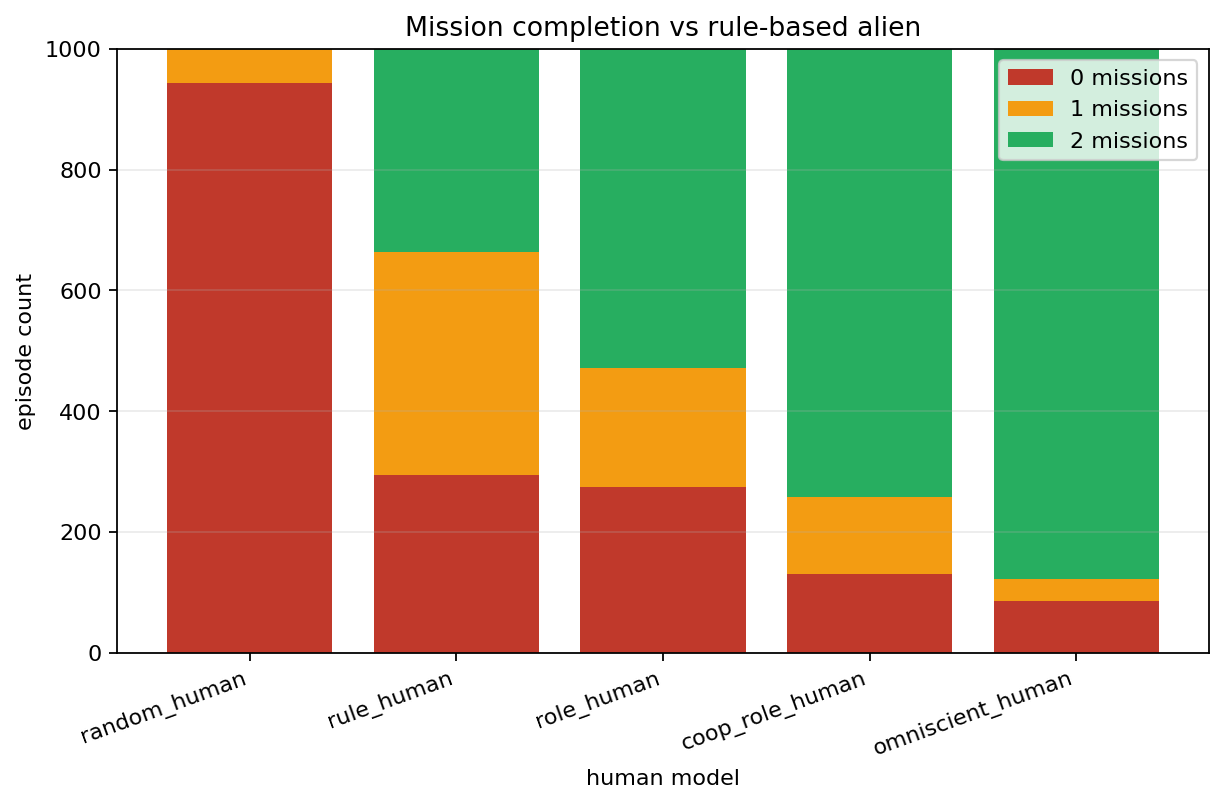
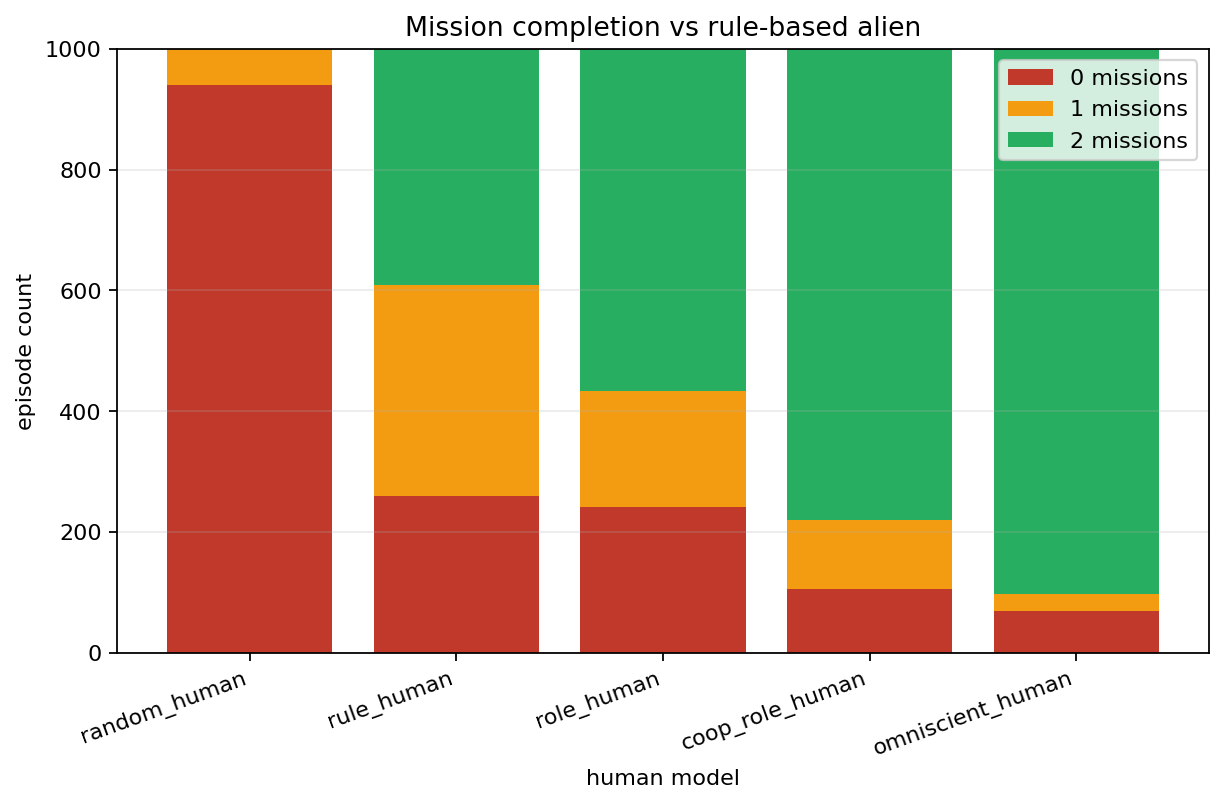
filter out timeout episodes in evaluation

diff --git a/evaluate_agents.py b/evaluate_agents.py
@@ -263,6 +263,8 @@ def run_episode(
     outcome_step = int(outcome_frame.step)
 
     timeout = outcome == "max_steps_reached"
+    if outcome == "max_steps_reached":
+        print(f"\n[TIMEOUT] seed={seed}, map={grid.shape[1]}x{grid.shape[0]}, human={human_spec.key}, alien={alien_spec.key}")
     return EpisodeRun(
         frames=frames,
         outcome=outcome,
@@ -397,64 +399,23 @@ def extract_episode_metrics(
 
 
 def evaluate_matchup(
-    episode_seeds: list[int],
-    width: int,
-    height: int,
-    max_steps: int,
-    view_length: int,
-    human_spec: HumanSpec,
-    alien_spec: AlienSpec,
-    p_noise: float = 0.10,
-    stop_on_timeout: bool = False,
+    validated_episodes: list[tuple[EpisodeMetrics, list[str]]],
 ) -> MatchupMetrics:
+    """Build a MatchupMetrics from a list of already-validated (metrics, human_labels) pairs."""
     escaped_counts = [0, 0, 0, 0]
     total_steps = 0
     episodes: list[EpisodeMetrics] = []
     human_labels: list[str] = []
-    total_humans = human_spec.count
 
-    for episode_seed in episode_seeds:
-        random.seed(episode_seed)
-        np.random.seed(episode_seed)
-
-        generator = MapGenerator(
-            width=width,
-            height=height,
-            alpha=ALPHA,
-            seed=episode_seed,
-            mission_count=MISSION_COUNT,
-        )
-        grid = generator.generate()
-        run = run_episode(
-            grid=grid,
-            max_steps=max_steps,
-            view_length=view_length,
-            seed=episode_seed,
-            human_spec=human_spec,
-            alien_spec=alien_spec,
-            p_noise=p_noise,
-        )
-        if stop_on_timeout and run.outcome == "max_steps_reached":
-            print(f"\n[STOP] max_steps reached: seed={episode_seed}, map={width}x{height}, human={human_spec.key}")
-            print(f"python run.py --human-class {human_spec.key} --human-count {human_spec.count} --seed {episode_seed} --width {width} --height {height} --max-steps {max_steps} --no-show")
-            sys.exit(0)
-
-        exit_pos = find_tile(grid, Tile.EXIT)
-        metrics = extract_episode_metrics(
-            seed=episode_seed,
-            run=run,
-            total_humans=total_humans,
-            max_steps=max_steps,
-            exit_pos=exit_pos,
-        )
+    for metrics, labels in validated_episodes:
         episodes.append(metrics)
-        if not human_labels and run.frames:
-            human_labels = [a.label for a in run.frames[0].agents if a.role == "human"]
+        if not human_labels and labels:
+            human_labels = labels
         total_steps += metrics.steps
         escaped_idx = max(0, min(metrics.escaped_count, HUMAN_COUNT))
         escaped_counts[escaped_idx] += 1
 
-    total = max(len(episode_seeds), 1)
+    total = max(len(episodes), 1)
     escaped_percentages = [count / total * 100.0 for count in escaped_counts]
     return MatchupMetrics(
         escape_stats=EscapeStats(
@@ -467,10 +428,114 @@ def evaluate_matchup(
     )
 
 
-def build_episode_seeds(base_seed: int, width: int, height: int, episodes: int) -> list[int]:
+def build_seed_generator(base_seed: int, width: int, height: int):
+    """Return an infinite generator of unique episode seeds for a given map size."""
     mix_seed = base_seed ^ (width << 16) ^ height
     rng = np.random.default_rng(mix_seed)
-    return [int(rng.integers(0, 2**31 - 1)) for _ in range(episodes)]
+    while True:
+        yield int(rng.integers(0, 2**31 - 1))
+
+
+def collect_episodes(
+    seed_gen,
+    target_episodes: int,
+    width: int,
+    height: int,
+    max_steps: int,
+    view_length: int,
+    human_alien_pairs: list[tuple[HumanSpec, AlienSpec]],
+    p_noise: float = 0.10,
+    stop_on_timeout: bool = False,
+) -> dict[tuple[str, str], list[tuple[EpisodeMetrics, list[str]]]]:
+    """
+    Draw seeds one at a time and run every (human_spec, alien_spec) pair against each seed.
+    A seed is only accepted when *none* of the pairs time out on it.
+    Repeats until every pair has collected `target_episodes` valid episodes.
+
+    Returns a dict keyed by (human_spec.key, alien_spec.key) -> list of (metrics, human_labels).
+    """
+    results: dict[tuple[str, str], list[tuple[EpisodeMetrics, list[str]]]] = {
+        (h.key, a.key): [] for h, a in human_alien_pairs
+    }
+    accepted = 0
+    skipped = 0
+
+    while accepted < target_episodes:
+        seed = next(seed_gen)
+
+        random.seed(seed)
+        np.random.seed(seed)
+
+        generator = MapGenerator(
+            width=width,
+            height=height,
+            alpha=ALPHA,
+            seed=seed,
+            mission_count=MISSION_COUNT,
+        )
+        grid = generator.generate()
+        exit_pos = find_tile(grid, Tile.EXIT)
+
+        # Run all pairs for this seed; bail out early on any timeout.
+        pair_results: dict[tuple[str, str], tuple[EpisodeMetrics, list[str]]] = {}
+        seed_valid = True
+
+        for human_spec, alien_spec in human_alien_pairs:
+            run = run_episode(
+                grid=grid,
+                max_steps=max_steps,
+                view_length=view_length,
+                seed=seed,
+                human_spec=human_spec,
+                alien_spec=alien_spec,
+                p_noise=p_noise,
+            )
+
+            if stop_on_timeout and run.timeout:
+                print(
+                    f"\n[STOP] max_steps reached: seed={seed}, map={width}x{height}, "
+                    f"human={human_spec.key}"
+                )
+                print(
+                    f"python run.py --human-class {human_spec.key} --human-count "
+                    f"{human_spec.count} --seed {seed} --width {width} --height {height} "
+                    f"--max-steps {max_steps} --no-show"
+                )
+                sys.exit(0)
+
+            if run.timeout:
+                seed_valid = False
+                skipped += 1
+                print(
+                    f"[SKIP] seed={seed}, map={width}x{height}, "
+                    f"human={human_spec.key}, alien={alien_spec.key} — timeout"
+                )
+                break
+
+            metrics = extract_episode_metrics(
+                seed=seed,
+                run=run,
+                total_humans=human_spec.count,
+                max_steps=max_steps,
+                exit_pos=exit_pos,
+            )
+            labels: list[str] = []
+            if run.frames:
+                labels = [a.label for a in run.frames[0].agents if a.role == "human"]
+            pair_results[(human_spec.key, alien_spec.key)] = (metrics, labels)
+
+        if seed_valid:
+            for key, data in pair_results.items():
+                results[key].append(data)
+            accepted += 1
+
+    if skipped:
+        print(
+            f"\n[INFO] map={width}x{height}: accepted {accepted} seeds, "
+            f"skipped {skipped} seeds due to timeouts."
+        )
+
+    return results
 
 
 def plot_survivor_count_comparison(
@@ -977,7 +1042,29 @@ def main() -> None:
         for spec in HUMAN_SPECS
     }
 
+    all_pairs = [(h, a) for h in selected_humans for a in selected_aliens]
+
+    # Collect all episodes per map size in one pass so every pair shares the same seeds.
+    # results[width, height] -> dict keyed by (human_spec.key, alien_spec.key)
+    results_by_map: dict[tuple[int, int], dict[tuple[str, str], list[tuple[EpisodeMetrics, list[str]]]]] = {}
+
     print("Evaluating human vs alien pairings")
+    for width, height in map_sizes:
+        seed_gen = build_seed_generator(args.seed, width, height)
+        print(f"\n=== Map size: {width}x{height} ===")
+        results_by_map[(width, height)] = collect_episodes(
+            seed_gen=seed_gen,
+            target_episodes=args.episodes,
+            width=width,
+            height=height,
+            max_steps=args.max_steps,
+            view_length=args.view_length,
+            human_alien_pairs=all_pairs,
+            p_noise=args.noise_prob,
+            stop_on_timeout=args.stop_on_timeout,
+        )
+
+    # Post-processing: write CSVs and plots per pair, drawing from already-collected results.
     for human_spec in selected_humans:
         for alien_spec in selected_aliens:
             pair_name = f"{human_spec.label} vs {alien_spec.label}"
@@ -998,19 +1085,9 @@ def main() -> None:
                 write_summary_table_header(table_writer)
 
                 for width, height in map_sizes:
-                    episode_seeds = build_episode_seeds(args.seed, width, height, args.episodes)
-
-                    print(f"\nMap size: {width}x{height}")
+                    pair_key = (human_spec.key, alien_spec.key)
                     matchup = evaluate_matchup(
-                        episode_seeds=episode_seeds,
-                        width=width,
-                        height=height,
-                        max_steps=args.max_steps,
-                        view_length=args.view_length,
-                        human_spec=human_spec,
-                        alien_spec=alien_spec,
-                        p_noise=args.noise_prob,
-                        stop_on_timeout=args.stop_on_timeout,
+                        validated_episodes=results_by_map[(width, height)][pair_key],
                     )
                     stats = matchup.escape_stats
                     episodes = matchup.episodes
@@ -1046,7 +1123,7 @@ def main() -> None:
                     else:
                         mission_completion_rate = 0.0
                     alien_captures = sum(ep.captured_count for ep in episodes)
-                    
+
                     table_writer.writerow([
                         width,
                         height,
@@ -1072,11 +1149,10 @@ def main() -> None:
 
                         for ep in episodes:
                             rule_alien_captured_roles[human_spec.label].extend(ep.captured_roles)
-                            
+
                             # Collect exit discovery steps
                             if ep.exit_discovery_step is not None:
                                 rule_alien_exit_discovery_steps[human_spec.label].append(ep.exit_discovery_step)
-
 
                         mission_histogram = rule_alien_mission_totals[human_spec.label]
 
